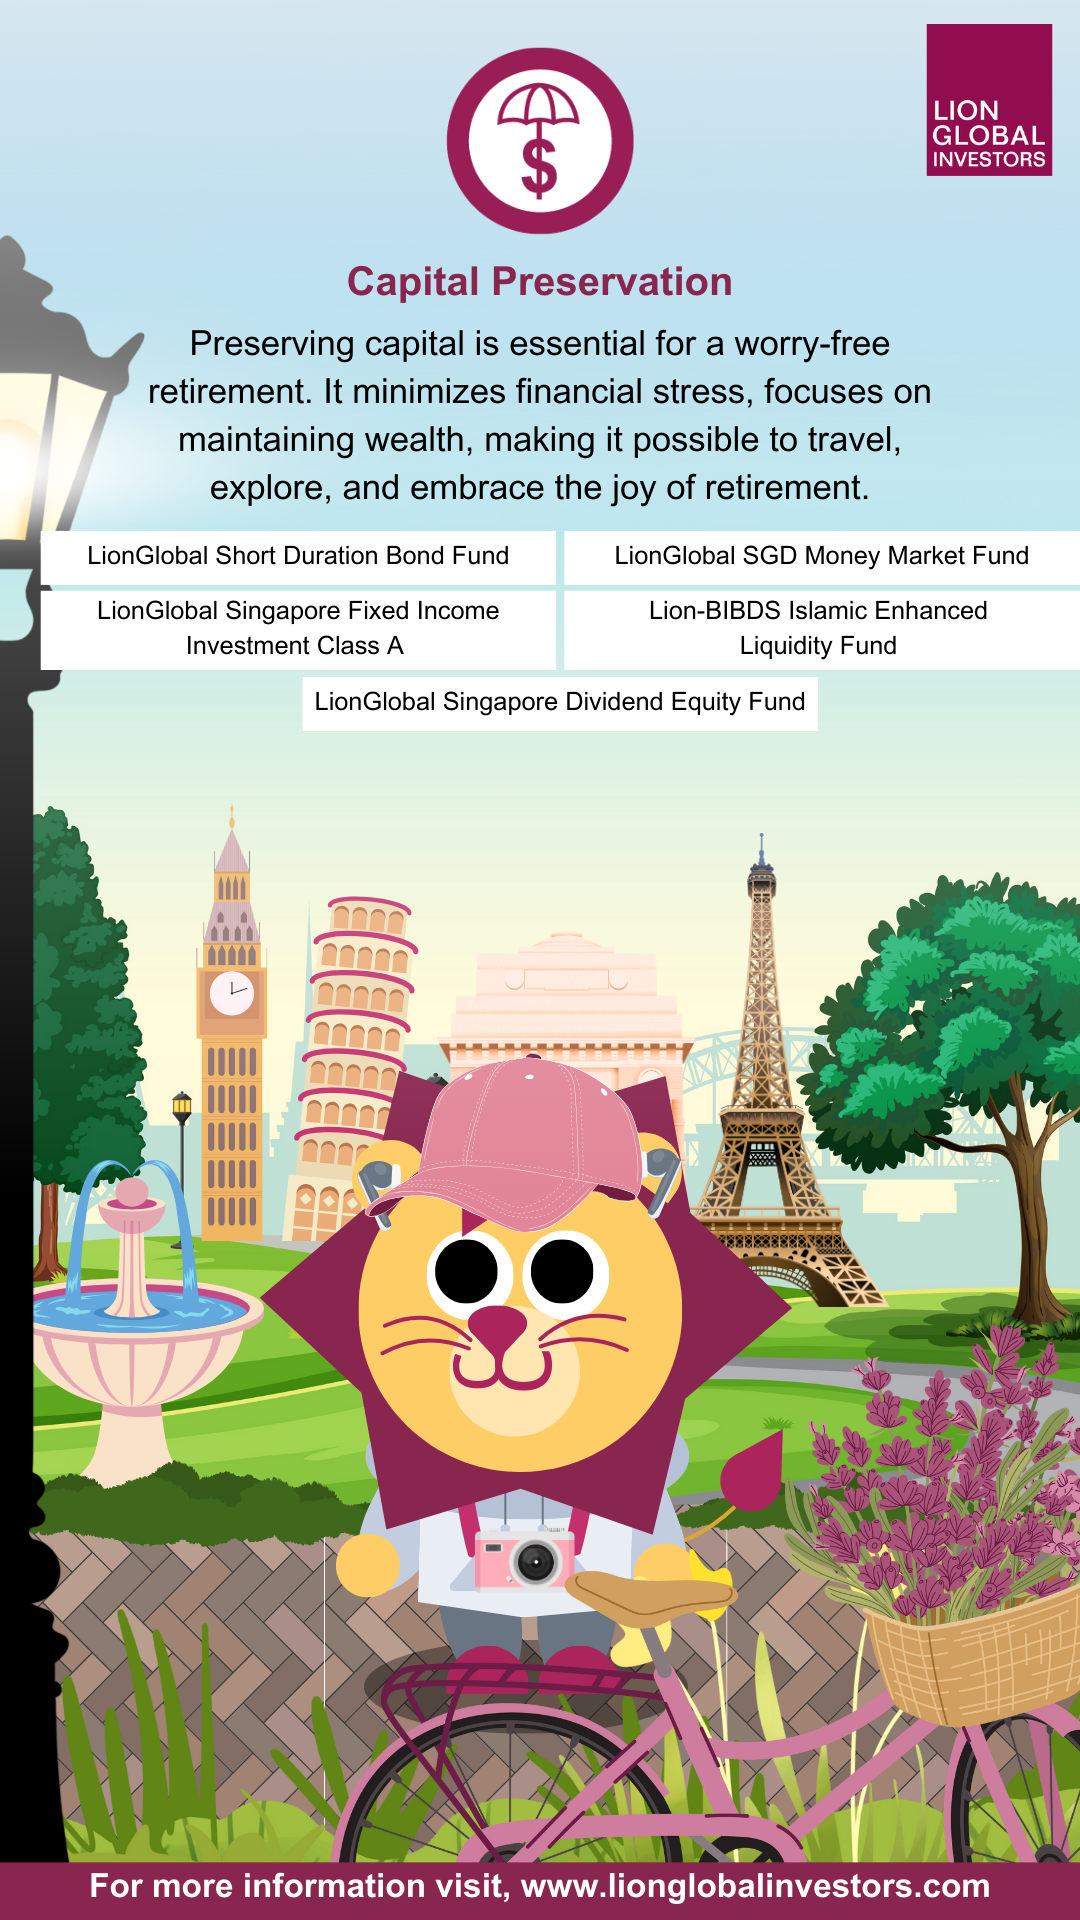
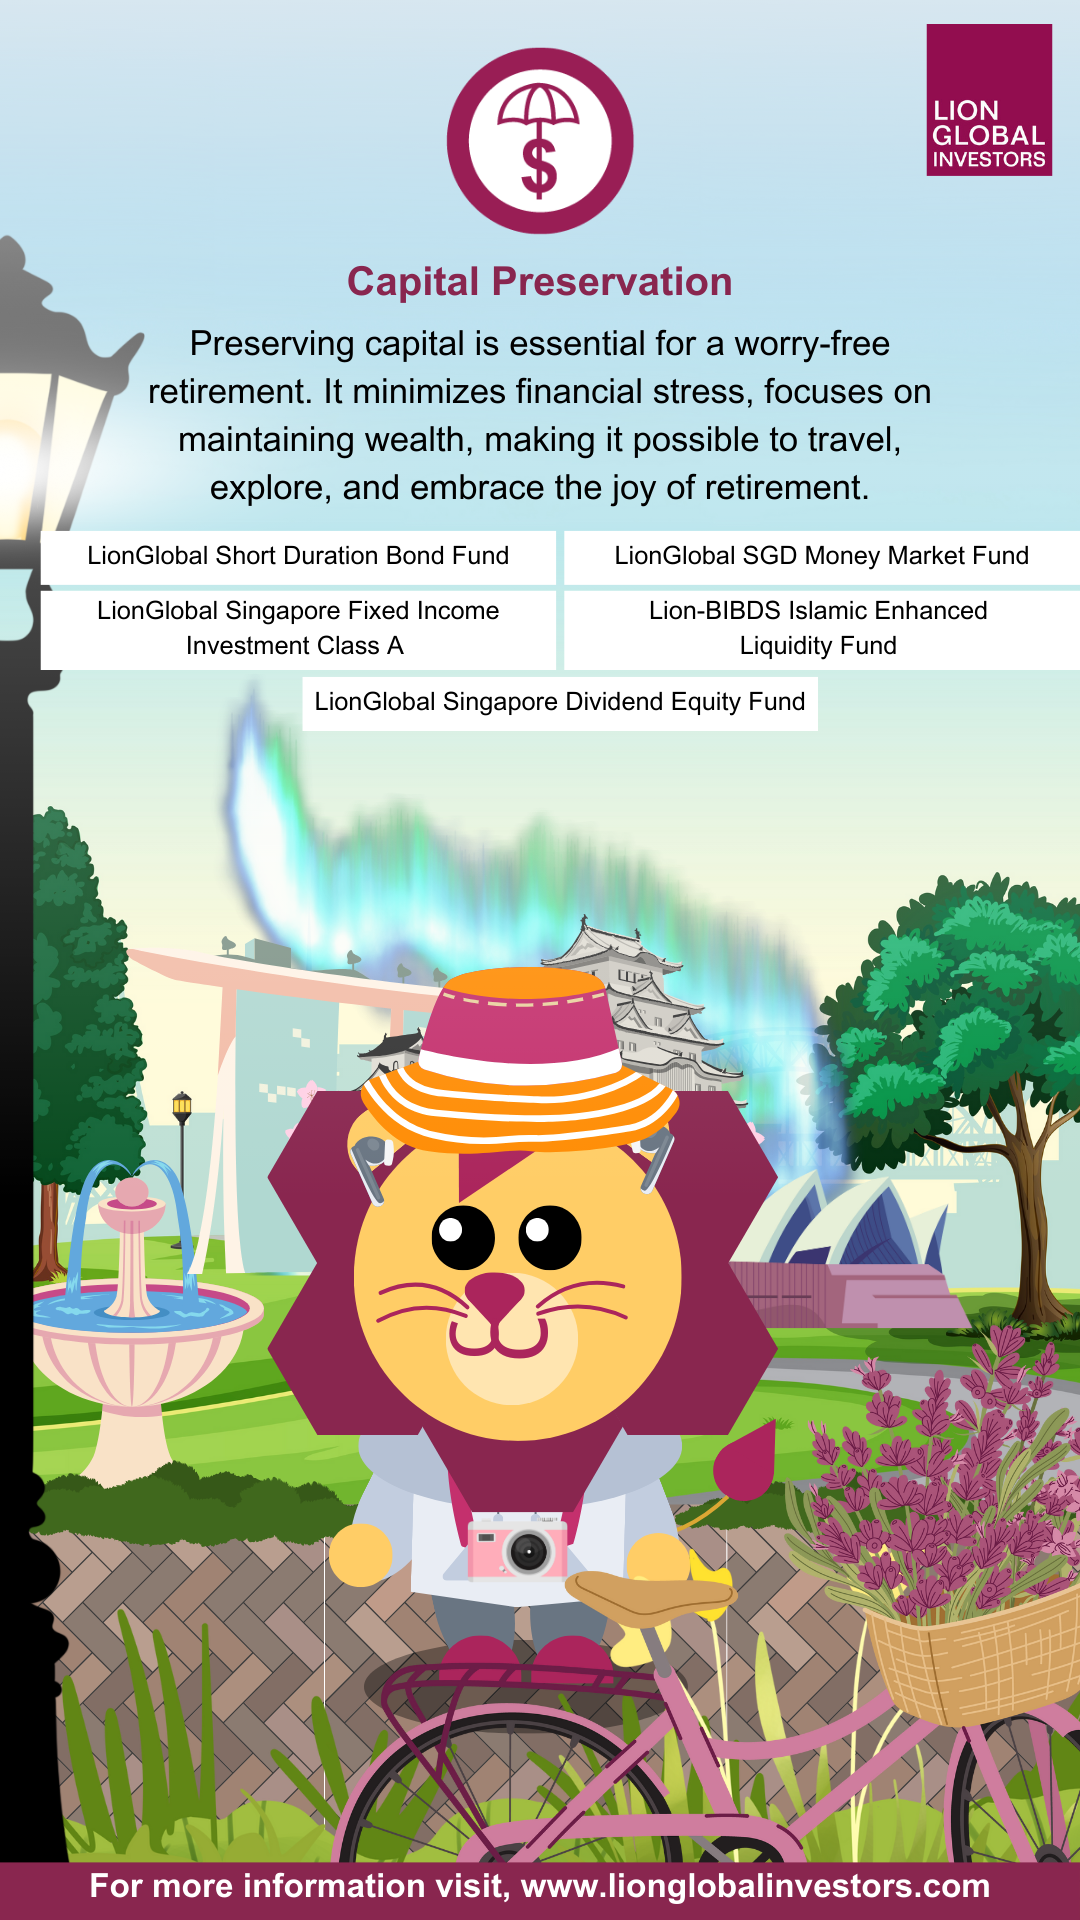
changed all qns & ending images
arial font

Changed region(s): [[0.1222, 0.3438, 0.8861, 0.9062]]

diff --git a/script.js b/script.js
@@ -14,7 +14,7 @@ class Quiz {
         },
       },
       {
-        image: `quiz-Q1.png`,
+        image: `quiz-Q2.png`,
         question: `Who is accompanying you to see the Northern Lights?`,
         answers: {
           Capital: `2 - 3 friends to split cost`,
@@ -24,7 +24,7 @@ class Quiz {
         },
       },
       {
-        image: `quiz-Q1.png`,
+        image: `quiz-Q3.png`,
         question: `It's time to head to the airport. <br> How early do you leave?`,
         answers: {
           Legacy: `Leave 3 hours early to go shopping/eating`,
@@ -34,7 +34,7 @@ class Quiz {
         },
       },
       {
-        image: `quiz-Q1.png`,
+        image: `quiz-Q4.png`,
         question: `While queuing to check in your luggage, someone tries to cut in front of you. <br> Do you:`,
         answers: {
           Capital: `Let them cut in front of you hoping that someone else will speak up`,
@@ -44,7 +44,7 @@ class Quiz {
         },
       },
       {
-        image: `quiz-Q1.png`,
+        image: `quiz-Q5.png`,
         question: `At the check in counter, you're told that your flight is delayed. <br> What do you do first?`,
         answers: {
           Income: `Pay extra to get onto the next available flight`,
@@ -54,7 +54,7 @@ class Quiz {
         },
       },
       {
-        image: `quiz-Q1.png`,
+        image: `quiz-Q6.png`,
         question: `You still have 30 minutes before your flight and you're feeling hungry. <br> What do you do?`,
         answers: {
           Wealth: `Eat at a restaurant at the transit area`,
@@ -64,7 +64,7 @@ class Quiz {
         },
       },
       {
-        image: `quiz-Q1.png`,
+        image: `quiz-Q7.png`,
         question: `Seated at the window seat, you're enjoying the view when you notice the person next to you is sleeping. <br> What do you do?`,
         answers: {
           Wealth: `Continue enjoying the view with the shade up`,
@@ -74,7 +74,7 @@ class Quiz {
         },
       },
       {
-        image: `quiz-Q1.png`,
+        image: `quiz-Q8.png`,
         question: `At the baggage claim, you notice someone struggling to lift their luggage. <br> Do you:`,
         answers: {
           Legacy: `Offer to help them`,
@@ -84,7 +84,7 @@ class Quiz {
         },
       },
       { //only show when got tie-breaker
-        image: `quiz-Q1.png`,
+        image: `quiz-Q9.png`,
         question: `When you are at the Northern Lights, for your first picture, do you: `,
         answers: {
           Capital: `Take a selfie`,
@@ -145,7 +145,7 @@ class Quiz {
                             <img class="quiz-cover-image" src="pic/${quizData.image}" alt="Quiz Cover Image">
                         </div>
                         <div class="quiz-info">
-                            <p class="quiz-desc" >${quizData.question}</p>
+                            
                             <div class="quiz-options">
                                 ${Object.entries(quizData.answers).map(([key, value]) => `
                                 <div class="quiz-option">
@@ -231,7 +231,7 @@ class Quiz {
               </div>
               <div class="quiz-info">
                 <p class="quiz-desc">
-                ${tiebreakerQuiz.question}
+                
                 </p>
                 <div class="quiz-options">
                   ${Object.entries(filteredAnswers)

diff --git a/style.css b/style.css
@@ -41,7 +41,7 @@
 }
 
 .lets-begin-desc {
-    /* font-family: 'OpenSans-Regular', sans-serif; */
+    font-family: 'Arial', sans-serif;
     font-size: 18px;
     font-weight: 400;
     color: #000000;
@@ -60,7 +60,7 @@
 .lets-begin-button-link,
 .lets-begin-button-link:hover {
     text-decoration: none;
-    /* font-family: 'OpenSans-Regular', sans-serif; */
+    font-family: 'Arial', sans-serif;
     font-size: 18px;
     font-weight: 400;
     color: #c4306d;
@@ -91,7 +91,7 @@
     cursor: pointer;
     transition: all 0.3s ease;
 
-    /* font-family: 'OpenSans-SemiBold', sans-serif; */
+    font-family: 'Arial', sans-serif;
     font-size: 16px;
     font-weight: 600;
     line-height: 21.79px;
@@ -147,7 +147,7 @@
 
 .quiz-desc {
     text-decoration: none;
-    /* font-family: 'OpenSans-Regular', sans-serif; */
+    font-family: 'Arial', sans-serif;
     font-size: 18px;
     font-weight: 400;
     color: #000000;
@@ -174,7 +174,7 @@
 }
 
 .quiz-info {
-    /* font-family: 'OpenSans-Regular', sans-serif; */
+    font-family: 'Arial', sans-serif;
     font-size: 18px;
     font-weight: 400;
     color: #000000;
@@ -200,7 +200,7 @@
 .quiz-option label {
     display: block;
     width: 100%;
-    /* font-family: 'OpenSans-SemiBold', sans-serif; */
+    font-family: 'Arial', sans-serif;
     font-size: 12px;
     font-weight: 600;
     /* line-height: 21.79px; */
@@ -292,7 +292,7 @@
 }
 
 .quiz-ans-title {
-    /* font-family: 'OpenSans-Bold', sans-serif; */
+    font-family: 'Arial', sans-serif;
     font-size: 32px;
     font-weight: 700;
     line-height: 48px;
@@ -302,7 +302,7 @@
 }
 
 .quiz-ans-desc {
-    /* font-family: 'OpenSans-Regular', sans-serif; */
+    font-family: 'Arial', sans-serif;
     font-size: 16px;
     font-weight: 400;
     line-height: 24px;
@@ -311,7 +311,7 @@
 }
 
 .hash-tag {
-    /* font-family: 'OpenSans-SemiBold', sans-serif; */
+    font-family: 'Arial', sans-serif;
     font-size: 16px;
     font-weight: 600;
     line-height: 24px;
@@ -320,7 +320,7 @@
 }
 
 .share-results {
-    /* font-family: 'OpenSans-SemiBold', sans-serif; */
+    font-family: 'Arial', sans-serif;
     font-size: 16px;
     font-weight: 600;
     line-height: 24px;
